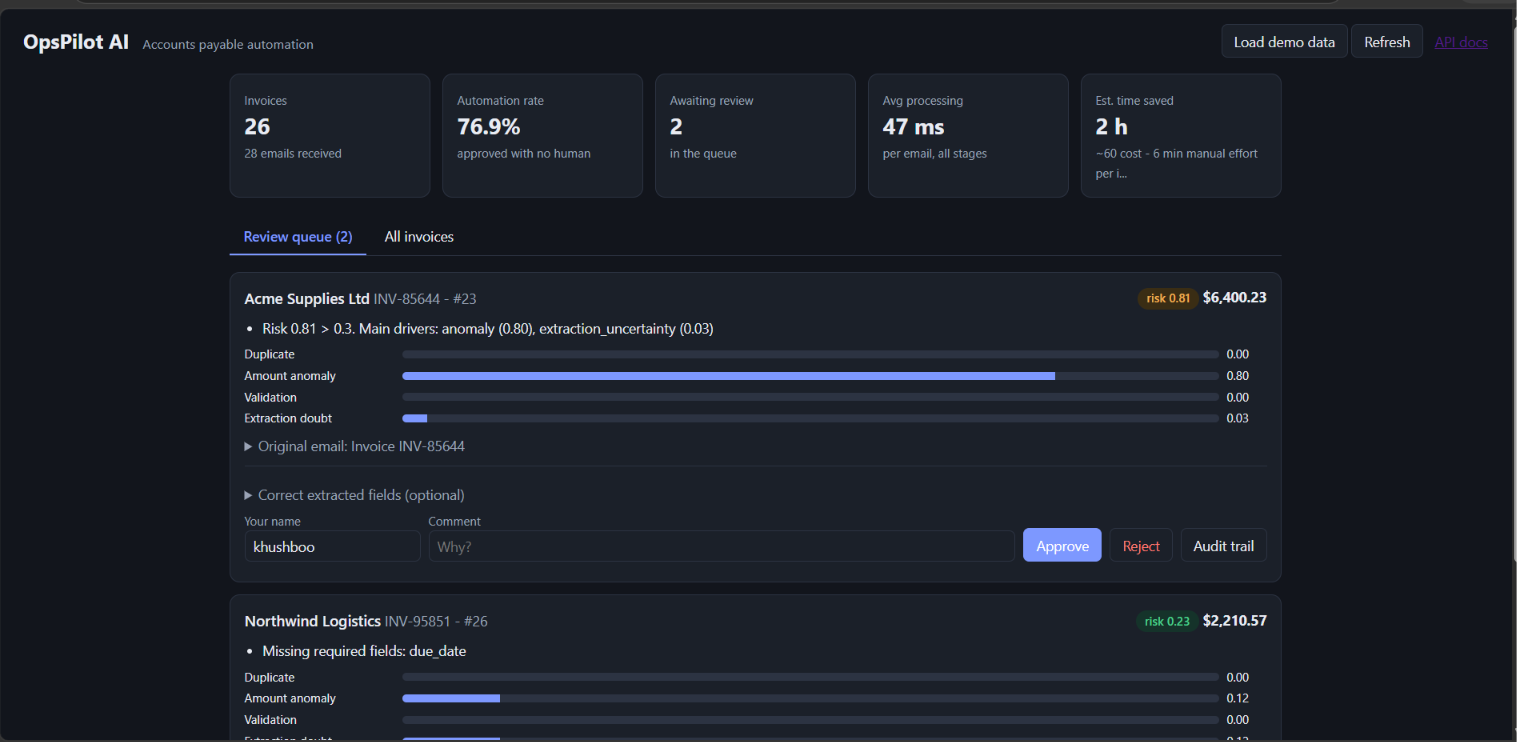
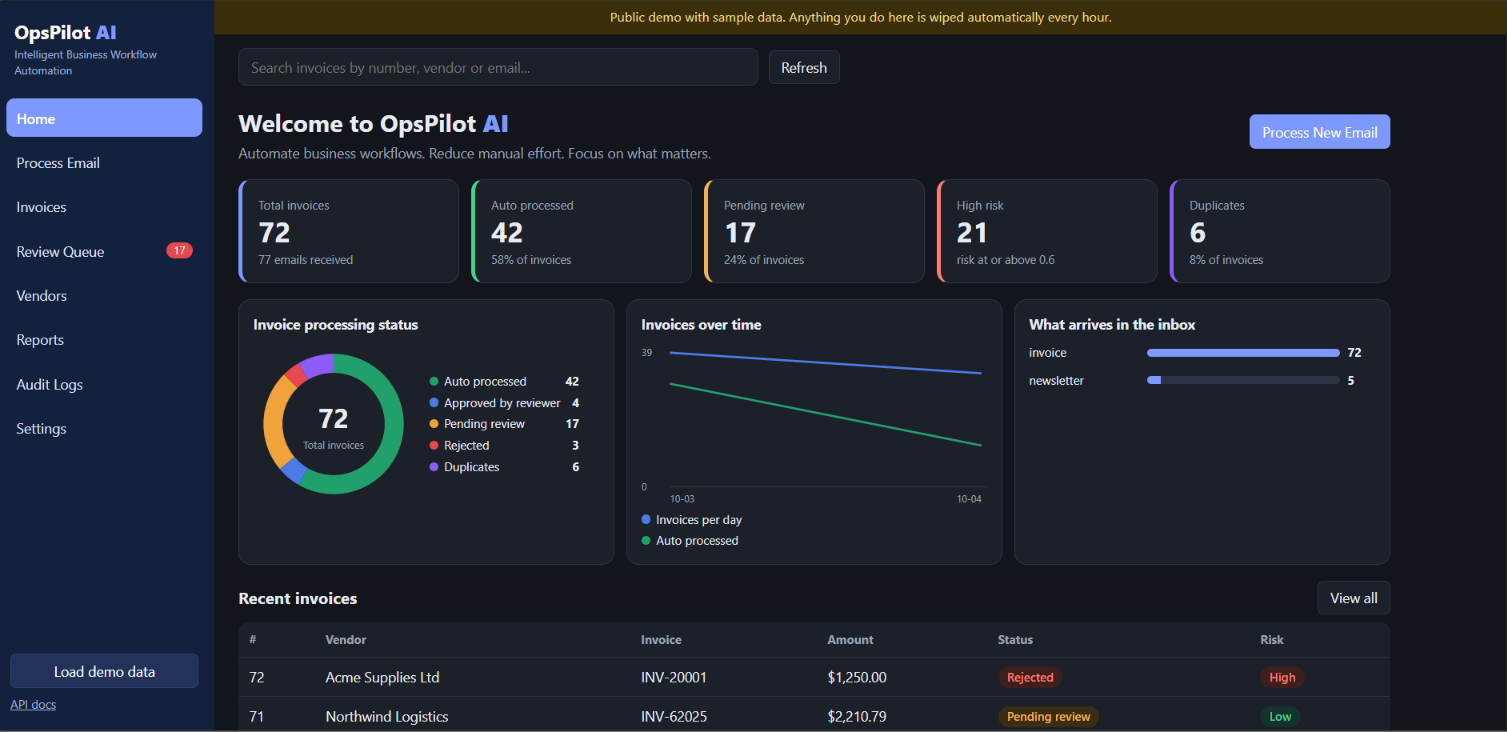
Add .env.example, refresh README and screenshots, Docker check in CI

diff --git a/README.md b/README.md
@@ -43,6 +43,8 @@ Every stage writes to the audit log, so any decision can be explained afterwards
 
 ## Results
 
+> **Version note.** The first two tables below are the results of version 1, before Anomaly v2. The raw reports in `docs/results/` are regenerated with the current code, so their numbers match the *Anomaly detection v2* section instead.
+
 Everything is measured on synthetic data, on **two datasets** with identical code. The *easy* set (1,499 emails) uses one clean template. The *hard* set (2,689 emails, generated by `scripts/generate_hard_data.py`) adds what real inboxes look like: varied labels and date/amount formats, vendor names only in signatures, vendor-specific invoice numbers, noisy duplicates (reformatted numbers, vendor typos, corrected amounts, resubmissions), legitimate look-alikes (monthly rent, identical same-day orders), subtler anomalies (mild spikes, bursts, brand-new vendors) and heavy-tailed vendors with price drift.
 
 The third column feeds the later stages the *true* field values ("oracle extraction"), which separates how good the detection logic is from how good the extractor is.
@@ -144,6 +146,10 @@ python -m scripts.evaluate_decisions --data data/synthetic_emails_hard.jsonl --o
 pytest -q
 ```
 
+## Dashboard
+
+The single-page dashboard at `/` has KPI cards, charts, the review queue and these pages: **Process Email**, **Vendors**, **Audit Logs**, **Reports** (CSV export, with spreadsheet formulas neutralised) and a read-only **Settings** page that shows only whitelisted, non-secret values.
+
 ## API
 
 | Endpoint | Purpose |
@@ -152,7 +158,12 @@ pytest -q
 | `GET /review-queue` | Invoices waiting for a human, highest risk first |
 | `POST /invoices/{id}/review` | Approve or reject, with optional field corrections |
 | `GET /invoices`, `/invoices/{id}`, `/invoices/{id}/audit` | Records and the full audit trail |
-| `GET /metrics` | Automation rate, pending reviews, processing time, estimated savings |
+| `GET /metrics`, `/stats` | Headline metrics, and the aggregates behind the dashboard cards and charts |
+| `GET /vendors` | Per-vendor summary |
+| `GET /audit` | Audit log across all invoices |
+| `GET /invoices.csv` | CSV export |
+| `GET /settings` | Read-only, whitelisted settings (no secrets) |
+| `GET /health` | Liveness check (never needs an API key) |
 
 ## Run it with Docker
 
@@ -235,5 +246,5 @@ tests/           unit tests and API tests
 - The learned extractor is trained on templated synthetic text and cannot read date formats it has no candidate rule for. Next: train on real invoices, add layout-aware features for PDFs, and try an LLM-based extractor scored with the same comparison script.
 - Bursts are only partly detectable from counts (12 of 25 still leak on busy vendors), mild spikes within a vendor's natural variation still leak, and the Isolation Forest used in the end-to-end replay is trained on the same data it is scored on.
 - Duplicate lookup loads all stored invoices, which will not scale; narrow it in SQL.
-- No authentication, so the reviewer name is trusted as typed. No database migrations (a production system would use Alembic).
+- No user accounts or roles: an optional API key protects the API, but a reviewer's name is typed in, not verified. No database migrations (a production system would use Alembic).
 - The mailbox poller is IMAP only, polling rather than push, and needs an app password; OAuth (Gmail API, Microsoft Graph) would be the production route. Scanned PDFs and images are not read (no OCR).
